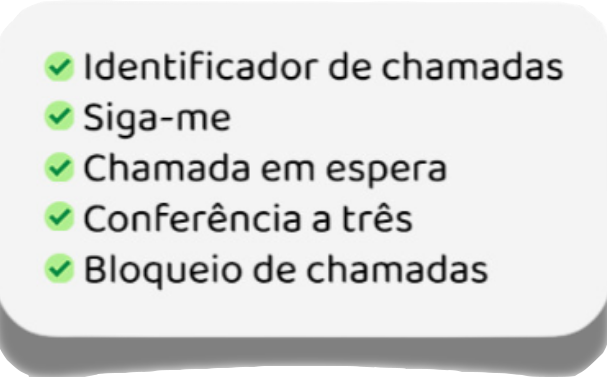
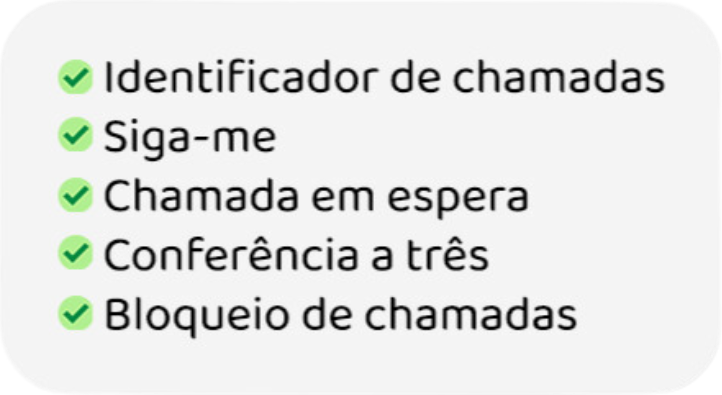
Add files via upload

diff --git a/index.html b/index.html
@@ -101,9 +101,11 @@
         </div>
         
     </div>
-    <div class="div_planos" style="background-color:white" >
+    <div class="div_planos" style="background-color: #f0f0f0; /* Cor de fundo */
+    border-radius: 10px; /* Arredondamento dos cantos */
+    box-shadow: 0 0 100px 0 rgba(0, 0, 0, 0.5); /* Sombra suave preta */"" >
         <div class="div_imagem">
-            <img class="imagem" width="100%" src="mulher_feliz.png" alt="">
+            <img  class="imagem" width="100%" src="mulher_feliz.png" alt="">
         </div>
         <div class="div_planos1">
             <p  style="color: red;" class="texto_planos">Pra converssar à vontade!</p>

diff --git a/style.css b/style.css
@@ -325,6 +325,7 @@ text-align: center;
 }   
 img{
     margin: 4%;
+    object-fit: cover;
 }
 
 .box_left{
